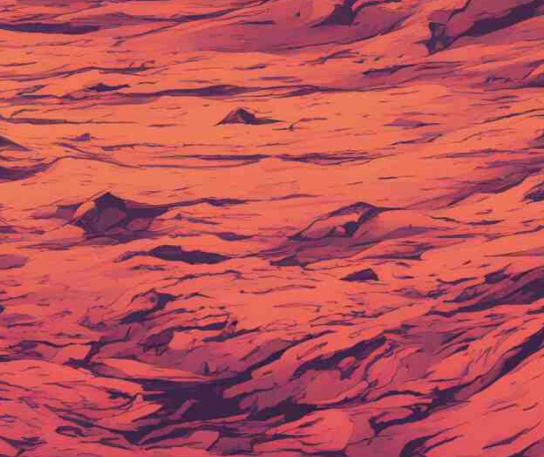
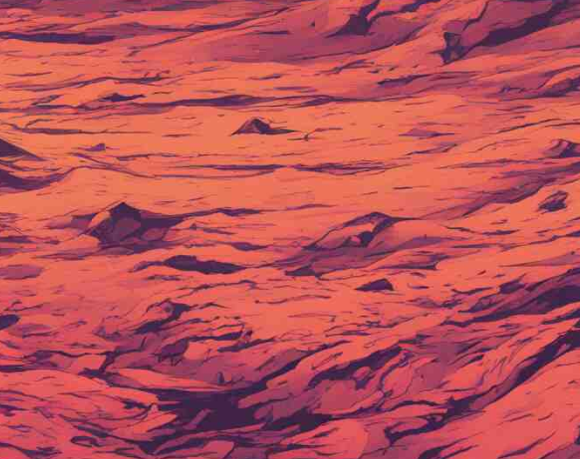
add search

diff --git a/src/screens/task/task.tsx b/src/screens/task/task.tsx
@@ -1,22 +1,40 @@
-import React from "react"
+import React, { useCallback, useEffect } from "react"
 import PropTypes from "prop-types"
 import { Cell, Grid } from "styled-css-grid"
-import { Config } from "../../config"
+import { Config, Model } from "../../config"
 import { is4K, l } from "../../utils"
+import { useState } from "react"
 
 import styles from "./task.module.css"
-import { Card, Content } from "react-bulma-components"
+import { Button, Card, Content, Form } from "react-bulma-components"
 
 function Task(props: Config) {
-    const models = props.models
-    console.log(props)
+    const models: Model[] = props.models
+    const [searchTerm, setSearchTerm] = useState("")
+    const [filteredList, setFilteredList] = useState<Model[]>(models)
+
+    useEffect(() => {
+        if (searchTerm === "") {
+            setFilteredList(models)
+        } else {
+            const searchTerms = searchTerm.toLowerCase().split(" ")
+            setFilteredList(models.filter(model => searchTerms.every(term => model.name.toLowerCase().includes(term))))
+        }
+    }, [searchTerm, models])
+
+    const handleSearchChange = useCallback((event: React.ChangeEvent<HTMLInputElement>) => {
+        setSearchTerm(event.target.value)
+    }, [])
 
     return (
         <div className={styles.container}>
+            <div className={styles.searchContainer}>
+                <Form.Input value={searchTerm} onChange={handleSearchChange} className={styles.searchInput} placeholder="Search models..." />
+            </div>
             <Grid columns={is4K ? 8 : l ? 3 : 1} gap="20px" className={styles.taskGrid}>
                 {" "}
                 {/* Adjust the number of columns and gap as needed */}
-                {models.map((model, index) => (
+                {filteredList.map((model, index) => (
                     <Cell key={index} className={styles.modelCard}>
                         <Card className={styles.card}>
                             <Card.Header className={styles.cardHeader}>

diff --git a/src/themes/dark.tsx b/src/themes/dark.tsx
@@ -1,28 +1,28 @@
 const dark = {
-  "dark-text-color": "#ffffff",
-  "dark-scrollbar-color": "#19191b",
-  "dark-background-color": "#252525",
-  "dark-border-color": "#17171d",
-  "dark-modal-background": "#222222e0",
-  "dark-input-color": "#4c4c70",
-  "dark-card-color": "#b4b4b4",
-  "dark-card-shadow": "rgba(0, 0, 0, 0.2)",
-  "dark-gradient-1": "#67b657",
-  "dark-gradient-2": "#5d73f0",
-  "dark-table-head": "#201e1e",
-  "dark-table-hover": "rgba(50, 0, 200, 0.4)",
-  "dark-neon-color-1": "#4D96FF",
-  "dark-neon-color-2": "#FFD93D",
-  "dark-pricing-color-1": "#FF8AAE",
-  "dark-pricing-color-2": "#6BCB77",
-  "dark-pricing-color-1-tr": "#FF8AAE20",
-  "dark-pricing-color-2-tr": "#6BCB7720",
-  "dark-candle-up": "#6BCB77",
-  "dark-candle-down": "#ff009f",
-  "dark-separator": "#f6f5e7",
-  "dark-background-histogram": "#9090ff40",
-  "dark-background-histogram2": "#60ff9050",
-  "dark-background-histogram3": "#ffa00050",
+    "dark-text-color": "#ffffff",
+    "dark-scrollbar-color": "#333333",
+    "dark-background-color": "#1a1a1a",
+    "dark-border-color": "#333333",
+    "dark-modal-background": "#2a2a2ad9",
+    "dark-input-color": "#333333",
+    "dark-card-color": "#212121",
+    "dark-card-shadow": "rgba(0, 0, 0, 0.5)",
+    "dark-gradient-1": "#ff6b6b",
+    "dark-gradient-2": "#f06595",
+    "dark-table-head": "#333333",
+    "dark-table-hover": "rgba(255, 107, 107, 0.4)",
+    "dark-neon-color-1": "#01cdfe",
+    "dark-neon-color-2": "#f5b700",
+    "dark-pricing-color-1": "#ff3d3d",
+    "dark-pricing-color-2": "#07f49e",
+    "dark-pricing-color-1-tr": "#ff3d3d20",
+    "dark-pricing-color-2-tr": "#07f49e20",
+    "dark-candle-up": "#07f49e",
+    "dark-candle-down": "#ff3d3d",
+    "dark-separator": "#f6f5e7",
+    "dark-background-histogram": "#ff6b6b80",
+    "dark-background-histogram2": "#07f49e80",
+    "dark-background-histogram3": "#f5b70080",
 }
 
 export default dark

diff --git a/src/config/index.ts b/src/config/index.ts
@@ -28,14 +28,14 @@ interface Config {
 }
 
 const config = {
-  chat: {models: chatConfig, ..._config.chat} as Config,
-  entity: {models: entityConfig, ..._config.entity} as Config,
-  lm: {models: lmConfig, ..._config.lm} as Config,
-  nli: {models: nliConfig, ..._config.nli} as Config,
-  summz: {models: summzConfig, ..._config.summz} as Config,
-  trans: {models: transConfig, ..._config.trans} as Config,
-  txtclass: {models: txtclassConfig, ..._config.txtclass} as Config,
-  txtqa: {models: txtqaConfig, ..._config.txtqa} as Config,
+  CHAT: {models: chatConfig, ..._config.chat} as Config,
+  ENTITY: {models: entityConfig, ..._config.entity} as Config,
+  LM: {models: lmConfig, ..._config.lm} as Config,
+  NLI: {models: nliConfig, ..._config.nli} as Config,
+  SUMMZ: {models: summzConfig, ..._config.summz} as Config,
+  TRANS: {models: transConfig, ..._config.trans} as Config,
+  TXTCLASS: {models: txtclassConfig, ..._config.txtclass} as Config,
+  TXTQA: {models: txtqaConfig, ..._config.txtqa} as Config,
 };
 
 export { config };

diff --git a/src/screens/task/task.module.less b/src/screens/task/task.module.less
@@ -3,6 +3,22 @@
     overflow: auto;
 }
 
+.searchContainer {
+    margin-bottom: 2em;
+    background-image: url(../../assets/model.png);
+    padding: 0.1em;
+}
+
+.searchInput {
+    background-color: var(--dark-background-color);
+    color: var(--dark-text-color);
+    border: none;
+}
+
+.searchInput::placeholder {
+    color: var(--dark-text-color);
+}
+
 .taskGrid {
     overflow: none;
 }

diff --git a/src/screens/task/task.module.css b/src/screens/task/task.module.css
@@ -2,6 +2,19 @@
   height: 80%;
   overflow: auto;
 }
+.searchContainer {
+  margin-bottom: 2em;
+  background-image: url(../../assets/model.png);
+  padding: 0.1em;
+}
+.searchInput {
+  background-color: var(--dark-background-color);
+  color: var(--dark-text-color);
+  border: none;
+}
+.searchInput::placeholder {
+  color: var(--dark-text-color);
+}
 .taskGrid {
   overflow: none;
 }
